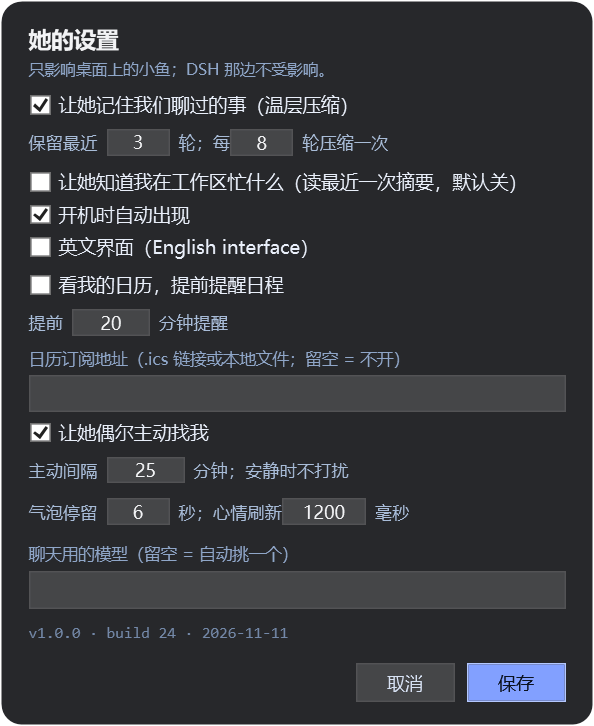
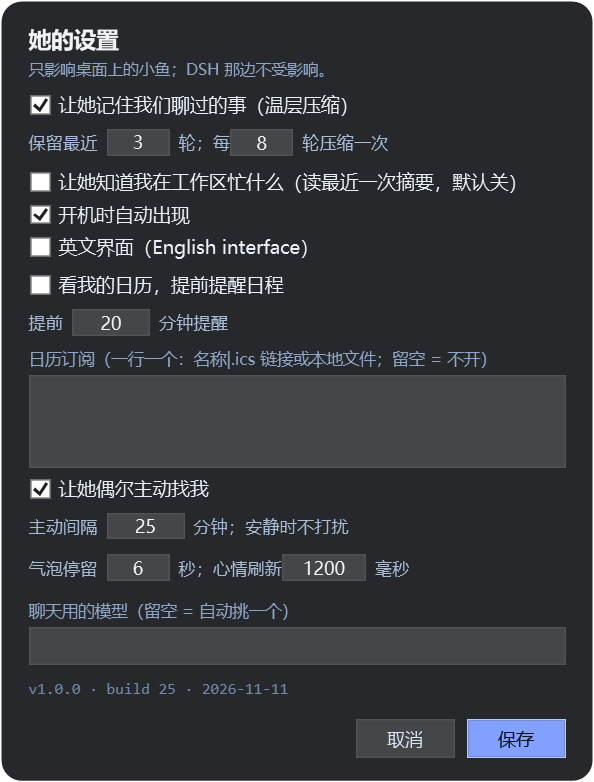
feat(widget): support several calendars at once, merged into one agenda

diff --git a/bridge/index.js b/bridge/index.js
@@ -394,7 +394,7 @@ function readAgenda() {
     const list = Array.isArray(j?.events) ? j.events : []
     const now = Date.now()
     return list
-      .map((e) => ({ start: new Date(e.start), end: new Date(e.end), title: String(e.title || ''), where: String(e.where || ''), allDay: !!e.allDay }))
+      .map((e) => ({ start: new Date(e.start), end: new Date(e.end), title: String(e.title || ''), where: String(e.where || ''), cal: String(e.cal || ''), allDay: !!e.allDay }))
       .filter((e) => e.title && !Number.isNaN(e.start.getTime()))
       .filter((e) => e.start.getTime() >= now - 3600e3 && e.start.getTime() <= now + 36 * 3600e3)
       .sort((a, b) => a.start - b.start)
@@ -409,13 +409,24 @@ function agendaLines(agenda, cn) {
   if (!Array.isArray(agenda) || !agenda.length) return out
   const pad = (n) => String(n).padStart(2, '0')
   const hhmm = (d) => `${pad(d.getHours())}:${pad(d.getMinutes())}`
+  const dayLabel = (d) => {
+    const a = new Date(); a.setHours(0, 0, 0, 0)
+    const b = new Date(d); b.setHours(0, 0, 0, 0)
+    const diff = Math.round((b - a) / 86400000)
+    if (diff === 0) return cn ? '今天' : 'today'
+    if (diff === 1) return cn ? '明天' : 'tomorrow'
+    if (diff === 2) return cn ? '后天' : 'in 2 days'
+    return `${b.getMonth() + 1}/${b.getDate()}`
+  }
   out.push(cn ? '对方本机的日历（对方问起或快到时候才提，别主动播报流水账）：' : "The user's local calendar (only mention when asked or when it matters):")
   for (const e of agenda.slice(0, 6)) {
     const when = e.allDay ? (cn ? '全天' : 'all day') : `${hhmm(e.start)}-${hhmm(e.end)}`
+    const day = dayLabel(e.start)
+    const cal = e.cal ? (cn ? `[${e.cal}] ` : `[${e.cal}] `) : ''
     const mins = Math.round((e.start.getTime() - Date.now()) / 60000)
     const left = mins > 0 && mins < 180 ? (cn ? `（还有 ${mins} 分钟）` : ` (in ${mins} min)`) : ''
     const where = e.where ? (cn ? `（${e.where}）` : ` (${e.where})`) : ''
-    out.push(`- ${when} ${e.title}${where}${left}`)
+    out.push(`- ${cal}${day} ${when} ${e.title}${where}${left}`)
   }
   out.push(cn ? '对方问你今天有什么安排时，照上面简短回答；快到的日程可以顺口提醒，但不要说"我查了你的日历"。' : 'If they ask about their day, answer briefly from this list; a soon event can be gently mentioned, but do not say you looked at their calendar.')
   return out

diff --git a/README.md b/README.md
@@ -168,6 +168,15 @@ She can read your calendar and speak up before an event starts — no DSH window
 
 Ask her "what's on my schedule today?" and she answers from the same data; when an event is close she pops a bubble like *"还有 7 分钟：组会（测试）（13:31 · Z211）"*.
 
+**More than one calendar?** One per line, `name|link` (the name is just a label):
+
+```
+Apple 日历|https://p01-calendarws.icloud.com/...
+理大邮箱|https://outlook.office365.com/owa/calendar/.../calendar.ics
+```
+
+With several sources the bubble and her answers include the source, e.g. *"还有 12 分钟：〔Apple 日历〕牙医预约（13:43 · 旺角）"*; a single source gets no prefix. The old single-link config still works.
+
 The link can be a **secret** (it usually grants read access to the calendar), so it is stored in `widget/calendar.json`, which is git-ignored and never synced into this repository. The parsed agenda is written to `bridge/agenda.json` for the chat bridge; both files stay on your machine.
 
 How to get the link:

diff --git a/README.zh-CN.md b/README.zh-CN.md
@@ -120,6 +120,15 @@
 
 之后问她“我今天有什么安排？”，她会按同一份数据回答；日程快到时她会弹气泡，比如 *“还有 7 分钟：组会（测试）（13:31 · Z211）”*。
 
+**不止一个日历？** 一行一个，格式 `名称|链接`（名称随便起，用来区分来源）：
+
+```
+Apple 日历|https://p01-calendarws.icloud.com/...
+理大邮箱|https://outlook.office365.com/owa/calendar/.../calendar.ics
+```
+
+来源多于一个时，提醒气泡和日程回答里会带上来源，比如 *“还有 12 分钟：〔Apple 日历〕牙医预约（13:43 · 旺角）”*；单个来源时不会加前缀。旧的单链接配置也还能用。
+
 订阅链接可能是一个**密钥**（通常意味着能读取你整本日历），所以它存在 `widget/calendar.json` 里：这个文件被 git 忽略，也不会同步进仓库。展开后的日程会写一份到 `bridge/agenda.json` 供聊天桥使用；两个文件都只留在你本机。
 
 各家的链接怎么拿：
